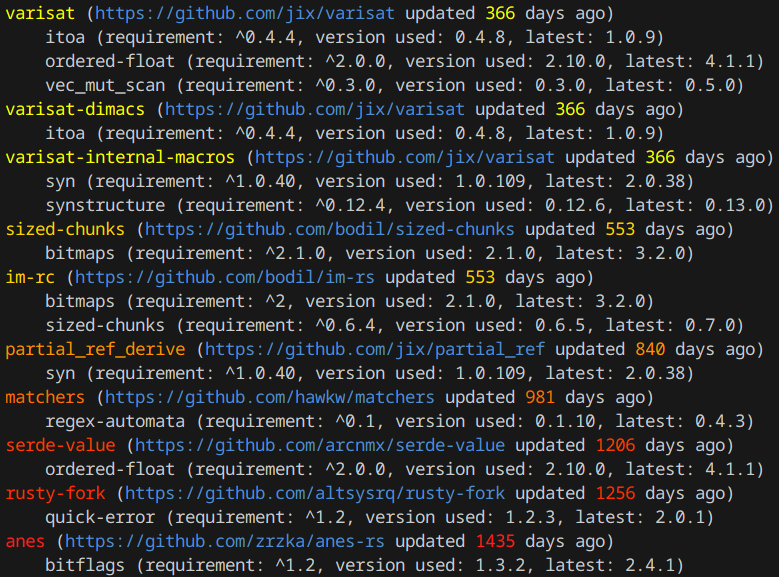
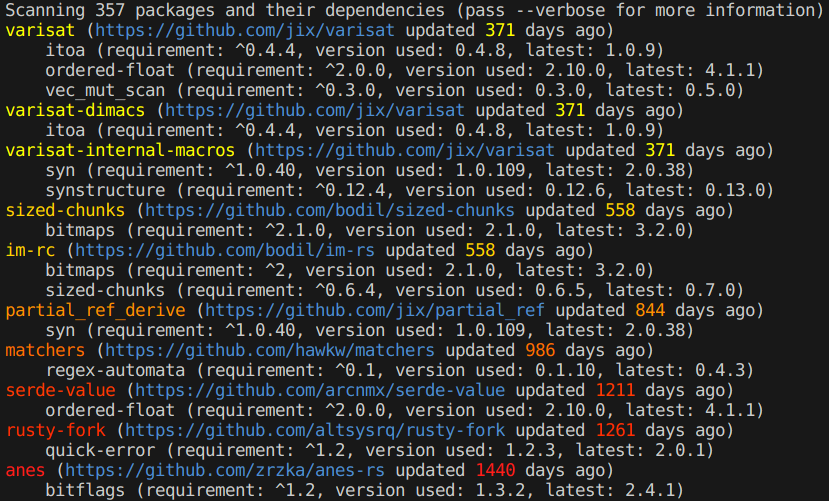
Update README.md

diff --git a/README.md b/README.md
@@ -2,7 +2,7 @@
 
 **Find unmaintained packages in Rust projects**
 
-`cargo-unmaintained` is similar to [`cargo-audit`]. However, rather than rely on users to find unmaintained packages and submit them to the [RustSec Advisory Database], `cargo-unmaintained` finds them automatically using a heuristic.
+`cargo-unmaintained` is similar to [`cargo-audit`]. However, `cargo-unmaintained` finds unmaintained packages automatically using heuristics, rather than rely on users to manually submit them to the [RustSec Advisory Database].
 
 `cargo-unmaintained` defines an unmaintained package X as one that satisfies either 1 or 2 below:
 
@@ -14,9 +14,9 @@
 
    b. Either X has no associated repository, or its repository's last commit was over a year ago (a configurable value).
 
-As of 2023-11-09, the RustSec Advisory Database contains 87 active advisories for unmaintained packages. Using the above conditions, `cargo-unmaintained` automatically identifies 51 of them (more than half). These results can be reproduced by running the `rustsec_comparison` binary within this repository.
+As of 2023-11-09, the RustSec Advisory Database contains 87 active advisories for unmaintained packages. Using the above conditions, `cargo-unmaintained` automatically identifies 51 of them (more than half). These results can be reproduced by running the [`rustsec_comparison`] binary within this repository.
 
-Notes
+### Notes
 
 - To check whether packages' repositories have been archived, set the `GITHUB_TOKEN_PATH` environment variable to the path of a file containing a [personal access token]. If unset, this check will be skipped.
 
@@ -30,9 +30,13 @@ Notes
 
 `cargo-unmaintained`'s output includes the number of days since a package's repository was last updated, along with the dependencies that cause the package to be considered unmaintained.
 
-For example, the following is the output produced by running `cargo-unmaintained` on the head of the [Cargo repository] on 2023-11-04:
+For example, the following is the output produced by running `cargo-unmaintained` on [Cargo 0.74.0] on 2023-11-09:
 
-<img src="etc/output.png" width=656>
+<!--
+`Scanning 357 packages and their dependencies (pass --verbose for more information)`
+-->
+
+<img src="etc/output.png" width=690>
 
 ## Usage
 
@@ -65,10 +69,23 @@ irrecoverable errors occurred, 1 if unmaintained packages were found, and 2 if a
 error occurred.
 ```
 
+## Known problems
+
+Repositories whose urls change across versions may be incorrectly reported as unmaintained.
+
+`cargo-unmaintained` treats the metadata of the latest version of a package referred to by a project as "ground truth." However, this can cause false positives. For example, if the latest version of [`regex-automata`] that your project relies on is [0.2.0], `cargo-unmaintained` will report the package is unmaintained, though it is not.
+
+We are evaluating ways of dealing with this problem.
+
 ## License
 
 `cargo-unmaintained` is licensed and distributed under the AGPLv3 license. [Contact us](mailto:opensource@trailofbits.com) if you're looking for an exception to the terms.
 
-[Cargo repository]: https://github.com/rust-lang/cargo
+[0.2.0]: https://docs.rs/crate/regex-automata/0.2.0/source/Cargo.toml
+[Cargo 0.74.0]: https://github.com/rust-lang/cargo/tree/d252bce6553c8cc521840c9dd6b9f6cd4aedd8b0
+[Notes]: #notes
 [RustSec Advisory Database]: https://github.com/RustSec/advisory-db/
 [`cargo-audit`]: https://github.com/RustSec/rustsec/tree/main/cargo-audit
+[`regex-automata`]: https://crates.io/crates/regex-automata
+[`rustsec_comparison`]: ./rustsec_comparison
+[personal access token]: https://docs.github.com/en/authentication/keeping-your-account-and-data-secure/managing-your-personal-access-tokens
